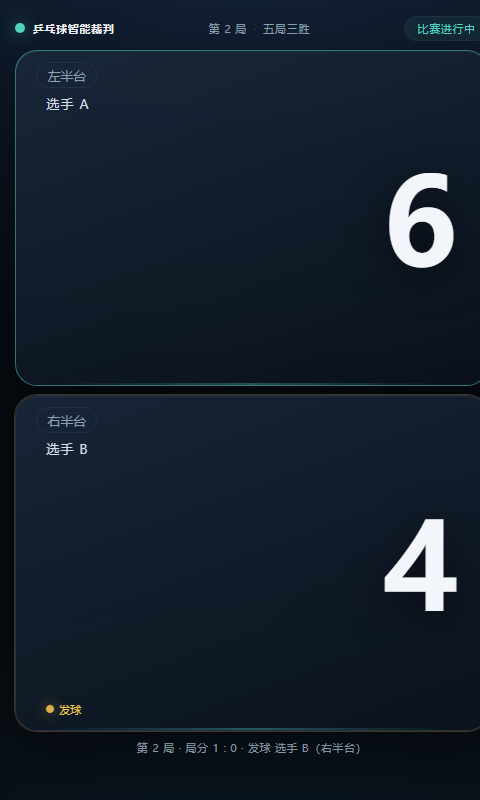
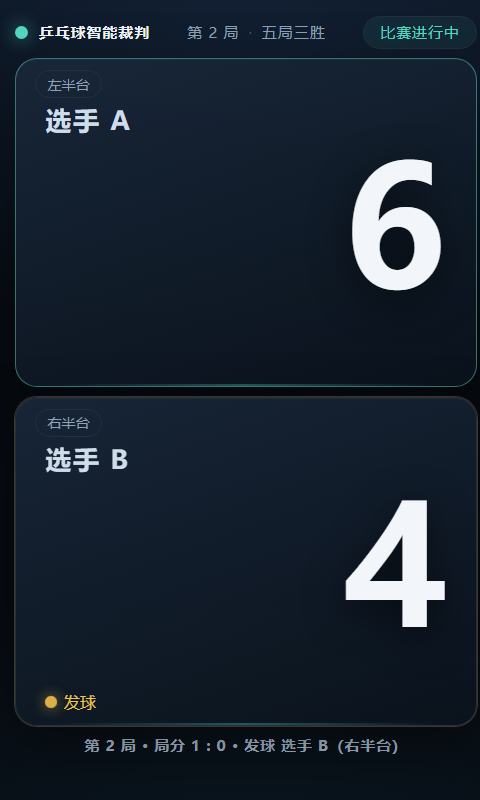
Increase scoreboard typography for small displays

diff --git a/tt_referee/ui/static/style.css b/tt_referee/ui/static/style.css
@@ -287,30 +287,38 @@ body.compact .recent,
 body.compact .demo { display: none !important; }
 
 /* ---------------------------------------------------------------- 自适应覆盖 */
-.topbar { font-size: clamp(11px, 1.9vmin, 20px); }
-.name { font-size: clamp(13px, 2.6vmin, 30px); }
-.points { font-size: clamp(56px, 26vmin, 240px); }
-.serve { font-size: clamp(11px, 1.8vmin, 20px); }
-.colon { font-size: clamp(40px, 10vmin, 120px); }
-.sets { font-size: clamp(14px, 2.6vmin, 26px); }
-.chip { font-size: clamp(11px, 1.8vmin, 19px); }
-.pending { font-size: clamp(12px, 2vmin, 21px); }
+.topbar { font-size: clamp(15px, 2.2vmin, 24px); }
+.name { font-size: clamp(20px, 3vmin, 34px); font-weight: 600; }
+.points { font-size: clamp(90px, 30vmin, 280px); font-weight: 800; }
+.serve { font-size: clamp(15px, 2.2vmin, 24px); }
+.colon { font-size: clamp(48px, 12vmin, 140px); }
+.sets { font-size: clamp(18px, 3.4vmin, 32px); }
+.side-tag { font-size: clamp(14px, 2vmin, 22px); }
+.meta-strip { font-size: clamp(15px, 2.5vmin, 24px); font-weight: 600; }
+.chip { font-size: clamp(14px, 2.2vmin, 22px); }
+.pending { font-size: clamp(16px, 2.5vmin, 24px); }
+.recent { font-size: clamp(14px, 1.9vmin, 20px); }
+.demo button { padding: .55em 1em; font-size: clamp(13px, 1.8vmin, 18px); }
 
 @media (max-height: 700px) {
-  .points { font-size: clamp(56px, 24vmin, 180px); }
-  .name { font-size: clamp(12px, 2.2vmin, 20px); }
-  .colon { font-size: clamp(34px, 8vmin, 80px); }
-  .sets { font-size: clamp(12px, 2.2vmin, 18px); }
-  .serve { font-size: clamp(10px, 1.6vmin, 15px); }
-  .chip { font-size: clamp(10px, 1.6vmin, 15px); }
-  .pending { font-size: clamp(11px, 1.8vmin, 16px); }
+  .points { font-size: clamp(90px, 31vmin, 200px); }
+  .name { font-size: clamp(18px, 2.9vmin, 28px); }
+  .colon { font-size: clamp(40px, 10vmin, 100px); }
+  .sets { font-size: clamp(16px, 3.2vmin, 24px); }
+  .serve { font-size: clamp(13px, 2.1vmin, 20px); }
+  .chip { font-size: clamp(13px, 2vmin, 19px); }
+  .pending { font-size: clamp(14px, 2.3vmin, 20px); }
 }
 
 @media (max-height: 520px) {
-  .points { font-size: clamp(44px, 21vmin, 120px); }
-  .name { font-size: clamp(11px, 2vmin, 16px); }
+  .points { font-size: clamp(90px, 33vmin, 160px); }
+  .name { font-size: clamp(16px, 3.2vmin, 20px); }
   .colon { font-size: clamp(28px, 7vmin, 56px); }
-  .sets { font-size: clamp(11px, 2vmin, 15px); }
+  .sets { font-size: 14px; }
+  .serve { font-size: 14px; }
+  .side-tag { font-size: 13px; }
+  .meta-strip { font-size: 14px; }
+  .chip { font-size: 13px; }
   .demo { display: none; }
 }
 
@@ -331,14 +339,20 @@ body.compact .demo { display: none !important; }
     align-items: center;
     padding: 0 6vw;
   }
-  .player .name { grid-column: 1; grid-row: 1; align-self: start; margin: 5.5vh 0 0; }
-  .player .serve { grid-column: 1; grid-row: 2; justify-self: start; align-self: end; margin: 0 0 1.6vh; }
-  .player .points { grid-column: 2; grid-row: 1 / span 2; font-size: clamp(64px, 24vmin, 200px); }
+  .player .name {
+    grid-column: 1; grid-row: 1; align-self: start; margin: 5.5vh 0 0;
+    font-size: clamp(24px, 5.2vmin, 34px);
+  }
+  .player .serve {
+    grid-column: 1; grid-row: 2; justify-self: start; align-self: end;
+    margin: 0 0 1.6vh; font-size: clamp(16px, 3vmin, 24px);
+  }
+  .player .points { grid-column: 2; grid-row: 1 / span 2; font-size: clamp(100px, 34vmin, 240px); }
   .player .side-tag { top: 1.4vh; left: 4vw; }
   .center { flex-direction: row; gap: 1.6vw; min-width: 0; }
   .center .colon { font-size: clamp(26px, 7vmin, 70px); }
   .center .sets-caption { display: none; }
-  .center .sets { font-size: clamp(14px, 3vmin, 30px); }
+  .center .sets { font-size: clamp(18px, 3.8vmin, 32px); }
   .recent, .demo { display: none; }
   .flags { justify-content: flex-start; overflow-x: auto; }
 }
